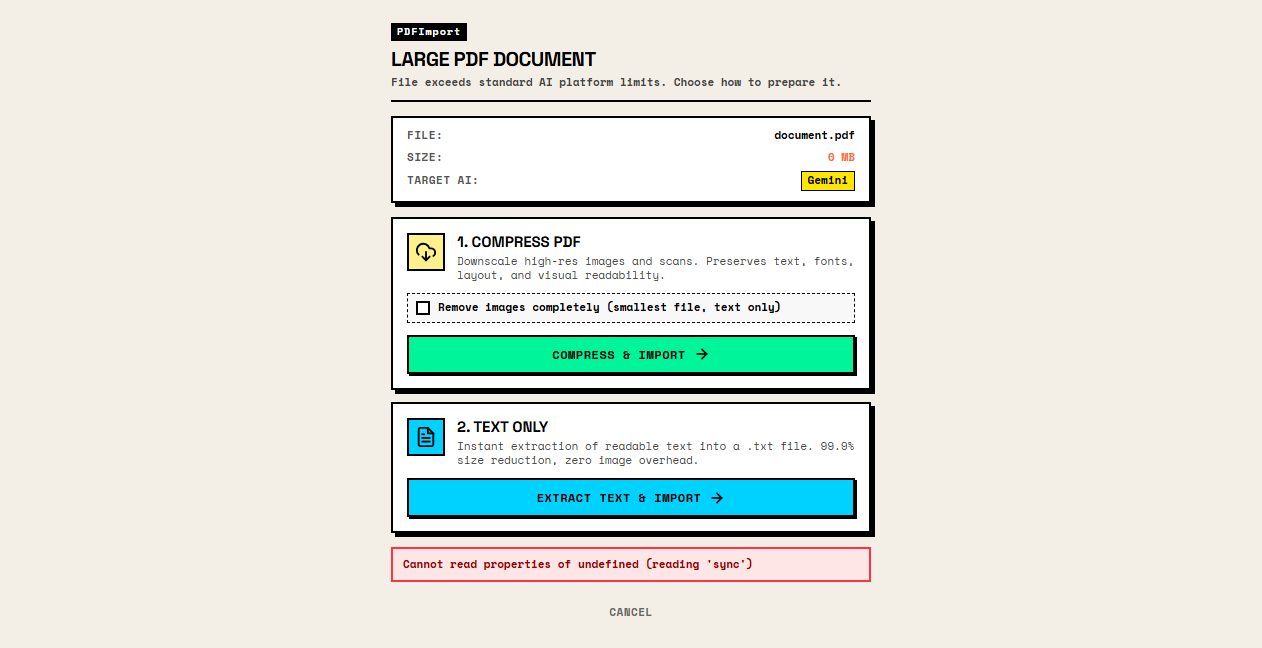
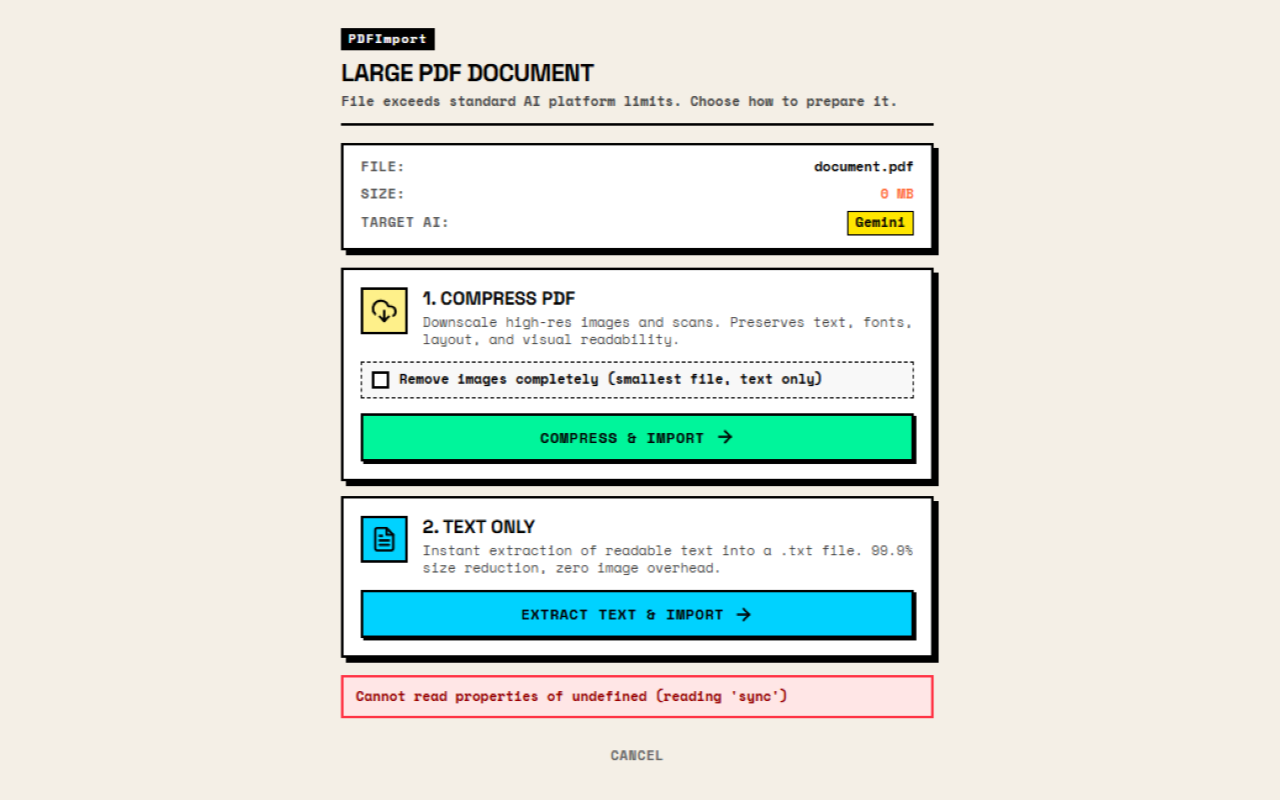
fix(store): resolve Yellow Argon keyword stuffing policy violation and bump version to 1.5.1

Changed region(s): [[0.2472, 0.0309, 0.7417, 0.8951], [0.4635, 0.9259, 0.5254, 0.9568]]

diff --git a/src/options/options.js b/src/options/options.js
@@ -302,7 +302,7 @@ document.addEventListener("DOMContentLoaded", async () => {
 
       // Format markdown body with diagnostic details
       const manifest = chrome.runtime.getManifest();
-      const extVersion = manifest ? manifest.version : "1.5.0";
+      const extVersion = manifest ? manifest.version : "1.5.1";
       const browserInfo = navigator.userAgent;
 
       const fullBody = [

diff --git a/docs/STORE_LISTING.md b/docs/STORE_LISTING.md
@@ -1,0 +1,105 @@
+# Chrome Web Store & Opera Add-ons Store Listings
+
+Tento dokument obsahuje oficiální texty pro zápis v obchodech s doplňky (Chrome Web Store, Opera Add-ons).
+
+---
+
+## 1. Důvod zamítnutí "Yellow Argon" (Keyword Stuffing / Spam v klíčových slovech)
+
+Google Chrome Web Store zakazuje v popisech doplňků uvádět dlouhé výčty značek, konkurentů nebo klíčových slov (tzv. *keyword stuffing* dle [Spam FAQ](https://developer.chrome.com/webstore/spam-faq#keyword-spam)).
+
+Původní text:
+> "Claude, ChatGPT, Google Gemini, DeepSeek, Microsoft Copilot, Kimi, Tencent Yuanbao, Z.ai (GLM), Meta AI, Alibaba Qwen, Grok, Perplexity, and LMSYS AI Arena."
+
+byl robotem vyhodnocen jako snaha manipulovat vyhledávací algoritmus obchodu prostřednictvím výčtu cizích ochranných známek a jmen AI modelů.
+
+### Pravidla pro bezproblémové schválení:
+1. Neuvádět nekonečný čárkami oddělený seznam 10+ AI služeb.
+2. Místo výčtu značek popsat funkci: integrace s předními webovými AI asistenty a podpora vlastních URL rozhraní.
+3. Zaměřit se na uživatelskou hodnotu (funkce, klávesové zkratky, optimalizace velkých PDF, ochrana soukromí).
+4. Žádné emoji (v souladu s pravidly projektu).
+
+---
+
+## 2. Texty pro Chrome Web Store Developer Console
+
+### English (United States) – Primary
+
+**Summary / Short Description (max 132 chars):**
+```
+Instantly import open PDF documents and online links into your preferred AI chat assistant without manual downloading.
+```
+
+**Detailed Description:**
+```markdown
+PDF to AI – Fast Import streamlines your workflow by eliminating the tedious friction of downloading PDF documents, saving them to disk, finding them in your file manager, and dragging them into your AI workspace.
+
+With a single keyboard shortcut or click, PDF documents are fetched directly and forwarded into your active AI chat session.
+
+KEY CAPABILITIES
+
+• One-Click Import: Send any currently viewed PDF (including online URLs, local file:/// files, and embedded PDF viewer pages) straight to AI with Alt+G.
+• Context Menu Integration: Right-click any hyperlink pointing to a PDF document on web pages, Google Scholar, arXiv, or PubMed to import it directly.
+• Smart PDF Optimizer: Built-in local optimization dialog detects oversized documents and helps you extract specific page ranges or compress files before sending.
+• Universal AI Compatibility: Configured out of the box to work seamlessly with leading web AI assistants and supports custom WebUI and LLM URLs.
+• Intelligent Prompt Injection: Automatically pastes your default analysis prompt alongside attached files for instant answers.
+• Local & Private: Runs entirely within your browser. No middleman servers, no analytics, no external tracking.
+
+HOW TO USE
+
+1. Open any PDF document in your browser (or right-click a PDF link).
+2. Press Alt+G (or click the extension icon / context menu).
+3. Your selected AI assistant opens automatically with the document attached and ready for your prompt.
+
+PRIVACY & SECURITY
+
+PDF to AI adheres to strict data privacy principles. The extension processes document data exclusively in your local browser session and communicates directly with your chosen assistant. No user data or document contents are ever collected, stored, or transmitted to third-party tracking servers.
+```
+
+---
+
+### Čeština (Czech)
+
+**Stručný popis (max 132 znaků):**
+```
+Automaticky a bleskově vloží otevřený PDF dokument do AI chatu bez nutnosti ručního stahování.
+```
+
+**Podrobný popis:**
+```markdown
+PDF to AI – Fast Import odstraňuje zdlouhavé a opakované stahování PDF dokumentů na disk, jejich vyhledávání ve složce stažených souborů a ruční přetahování do webového chatu umělé inteligence.
+
+Jediným kliknutím nebo klávesovou zkratkou se otevřený dokument předá přímo do vašeho aktivního AI asistenta.
+
+HLAVNÍ FUNKCE
+
+• Import jedním kliknutím: Přeneste aktuálně otevřený PDF dokument (včetně webových odkazů, lokálních souborů file:/// i vestavěného prohlížeče) pomocí zkratky Alt+G.
+• Kontextová nabídka: Klikněte pravým tlačítkem myši na jakýkoliv odkaz směřující na PDF (např. na webu, Google Scholar, arXiv nebo PubMed) a pošlete jej přímo do AI.
+• Chytrá optimalizace: Automatická detekce velkých souborů s možností rychlého výběru stránek nebo zmenšení velikosti před odesláním.
+• Univerzální kompatibilita: Připraveno pro okamžitou spolupráci s předními webovými AI asistenty i vlastními URL adresami.
+• Automatický prompt: Možnost nastavit výchozí zadání (např. shrnutí dokumentu), které se automaticky vloží společně se souborem.
+• Bezpečí a soukromí: Rozšíření běží výhradně lokálně ve vašem prohlížeči. Žádné prostřední servery, žádné sledování ani shromažďování dat.
+
+JAK ROZŠÍŘENÍ POUŽÍVAT
+
+1. Otevřete v prohlížeči libovolný PDF dokument (nebo klikněte pravým tlačítkem na odkaz na PDF).
+2. Stiskněte zkratku Alt+G (nebo klikněte na ikonu rozšíření v liště / volbu v menu).
+3. Otevře se váš nastavený AI asistent s připojeným dokumentem, připravený k práci.
+
+OCHRANA SOUKROMÍ
+
+PDF to AI klade důraz na maximální bezpečnost. Rozšíření zpracovává soubory výhradně lokálně ve vašem prohlížeči. Vaše dokumenty ani osobní údaje nejsou nikdy ukládány na cizí servery ani předávány třetím stranám.
+```
+
+---
+
+## 3. Postup pro opětovné odeslání ke schválení (Chrome Web Store)
+
+1. Otevřete [Chrome Web Store Developer Console](https://chrome.google.com/webstore/devconsole).
+2. Vyberte položku **PDF to AI – Fast Import**.
+3. Přejděte do sekce **Záznam v obchodě (Store listing)**:
+   - Upravte **Popis (Detailed description)** pro angličtinu i češtinu výše uvedenými texty (odstraněn seznam značek).
+4. Pokud Google požaduje nahrání nového balíčku kvůli verzi:
+   - Spusťte: `python scripts/pack_extension.py`
+   - V sekci **Balíček (Package)** nahrajte nový `dist/pdfimport-v1.5.1.zip`.
+5. Klikněte na **Odeslat ke kontrole (Submit for review)**.

diff --git a/README.cs.md b/README.cs.md
@@ -128,7 +128,7 @@ Pro vytvoření čistého distribučního ZIP archivu pro Chrome Web Store a Ope
 python scripts/pack_extension.py
 ```
 
-Výsledný ZIP archiv se vygeneruje do složky `dist/` (např. `dist/pdfimport-v1.5.0.zip`).
+Výsledný ZIP archiv se vygeneruje do složky `dist/` (např. `dist/pdfimport-v1.5.1.zip`).
 
 ---
 

diff --git a/README.md b/README.md
@@ -128,7 +128,7 @@ To create a clean distribution ZIP package for Chrome Web Store and Opera Add-on
 python scripts/pack_extension.py
 ```
 
-The packaged archive will be saved in `dist/` (e.g. `dist/pdfimport-v1.5.0.zip`).
+The packaged archive will be saved in `dist/` (e.g. `dist/pdfimport-v1.5.1.zip`).
 
 ---
 
